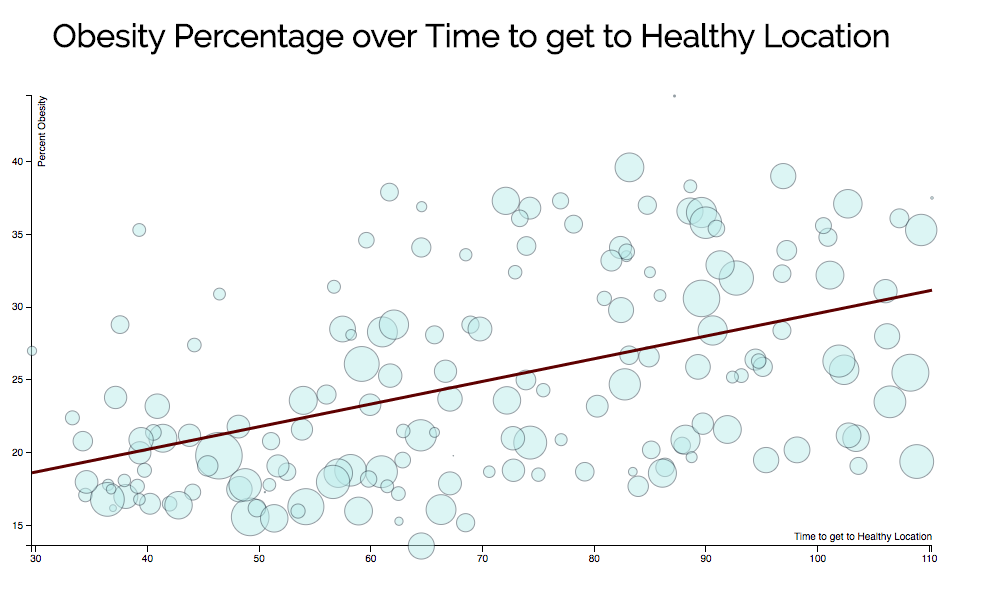
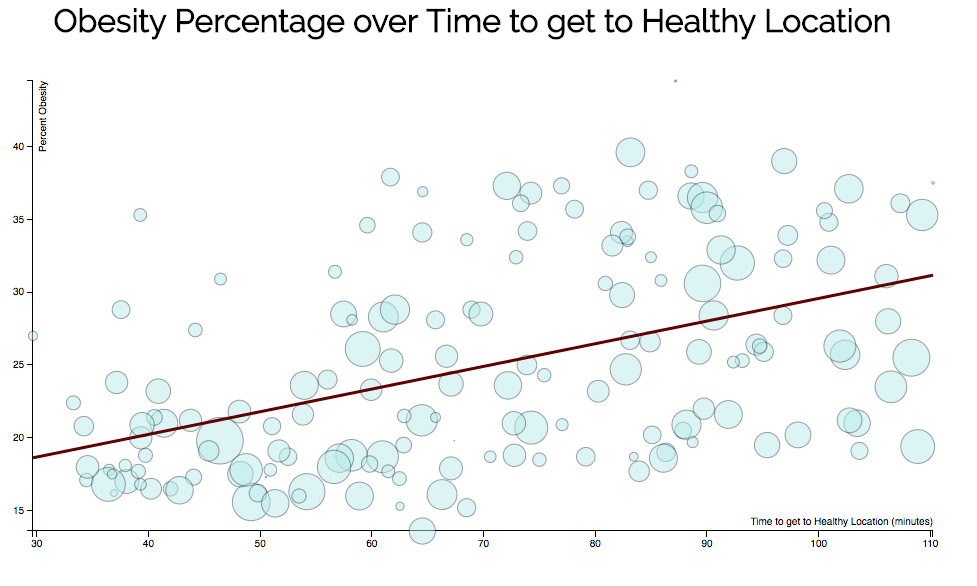
added units

diff --git a/visuals_site/templates/plot.html b/visuals_site/templates/plot.html
@@ -146,7 +146,7 @@ div.text-form {
         .attr("x", width)
         .attr("y", -6)
         .style("text-anchor", "end")
-        .text("Time to get to Healthy Location");
+        .text("Time to get to Healthy Location (minutes)");
 
     svg.append("g")
         .attr("class", "y axis")
